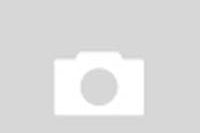
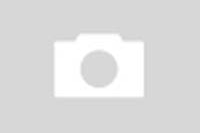
Added no photos to gallery

Changed region(s): [[0.27, 0.2406, 0.72, 0.5714], [0.27, 0.6015, 0.72, 0.8722]]

diff --git a/themes/facilities/css/style.css b/themes/facilities/css/style.css
@@ -1046,6 +1046,19 @@ div.report-item .report-image {
     padding:5px;
 }
 
+.report-no-thumbnails {
+    width:300px;
+    height:300px;
+    text-align:center;
+    margin-top:30px;
+    margin-left:auto;
+    margin-right:auto;
+    font-size:18px;
+    font-style: italic;
+    color:gray;
+    background:url(../images/no-photos.png) no-repeat center 50px;
+}
+
 /* ############################### REPORT DETAILS ############################### */
 
 div.report-comment-form,

diff --git a/themes/facilities/views/reports/list.php b/themes/facilities/views/reports/list.php
@@ -58,33 +58,37 @@
     <div id="gallery" style="display:none;">
         <div id="content">
             <?php
+            $thumbnails = 0;
             foreach ($incidents as $incident) {
                 $incident = ORM::factory('incident', $incident->incident_id);
                 $incident_id = $incident->id;
                 $incident_title = $incident->incident_title;
                 $incident_description = $incident->incident_description;
-                $location_name = $incident->location->location_name;
                 $incident_tooltip = $incident_title . '&#13;' . strip_tags(str_replace('<br/>', '&#13;', $incident_description));
-                $incident_thumb = url::site() . "/themes/facilities/images/placeholder-report.png";
                 if ($incident->media->count()) {
                     foreach ($incident->media as $photo) {
                         if ($photo->media_thumb) {
                             $incident_thumb = url::convert_uploaded_to_abs($photo->media_medium);
-                            break;
+                            $thumbnails++;
+                        ?>
+                            <div class="report-thumbnail">
+                                <a title="<?php echo $incident_tooltip; ?>"
+                                   href="<?php echo url::site(); ?>reports/view/<?php echo $incident_id; ?>">
+                                    <?php if ($incident_thumb != null) { ?>
+                                    <img src="<?php echo $incident_thumb; ?>" />
+                                    <?php } ?>
+                                    <div class="report-title"><?php echo $incident_title; ?></div>
+                                </a>
+                            </div>
+                        <?php
                         }
                     }
                 }
-                ?>
-                <div class="report-thumbnail">
-                    <a title="<?php echo $incident_tooltip; ?>"
-                       href="<?php echo url::site(); ?>reports/view/<?php echo $incident_id; ?>">
-                        <?php if ($incident_thumb != null) { ?>
-                            <img src="<?php echo $incident_thumb; ?>" />
-                        <?php } ?>
-                        <div class="report-title"><?php echo $incident_title; ?></div>
-                    </a>
-                </div>
-            <?php } ?>
+            }
+            if ($thumbnails == 0) {
+                echo "<div class='report-no-thumbnails'>No photos in gallery</div>";
+            }
+            ?>
         </div>
     </div>
 </div>
